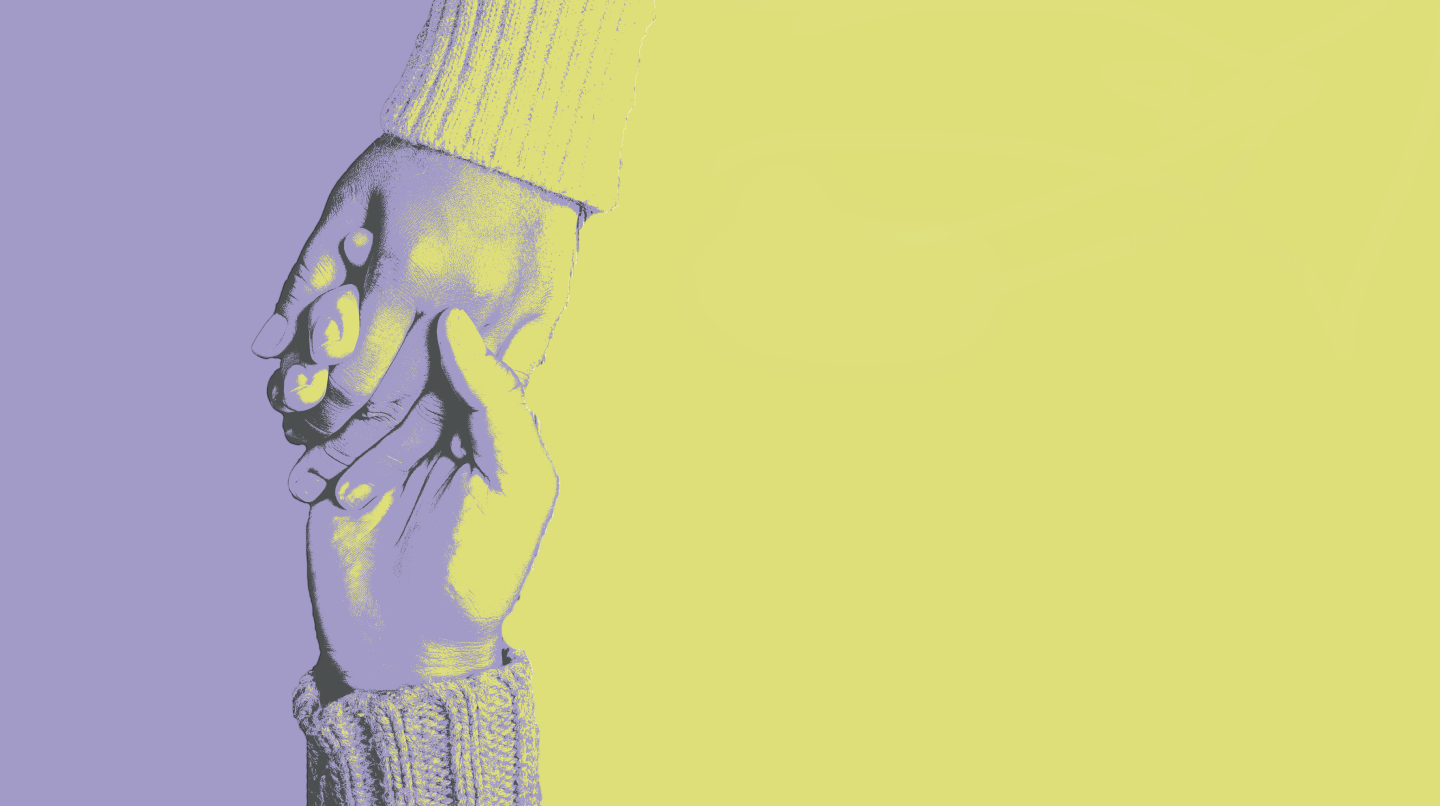
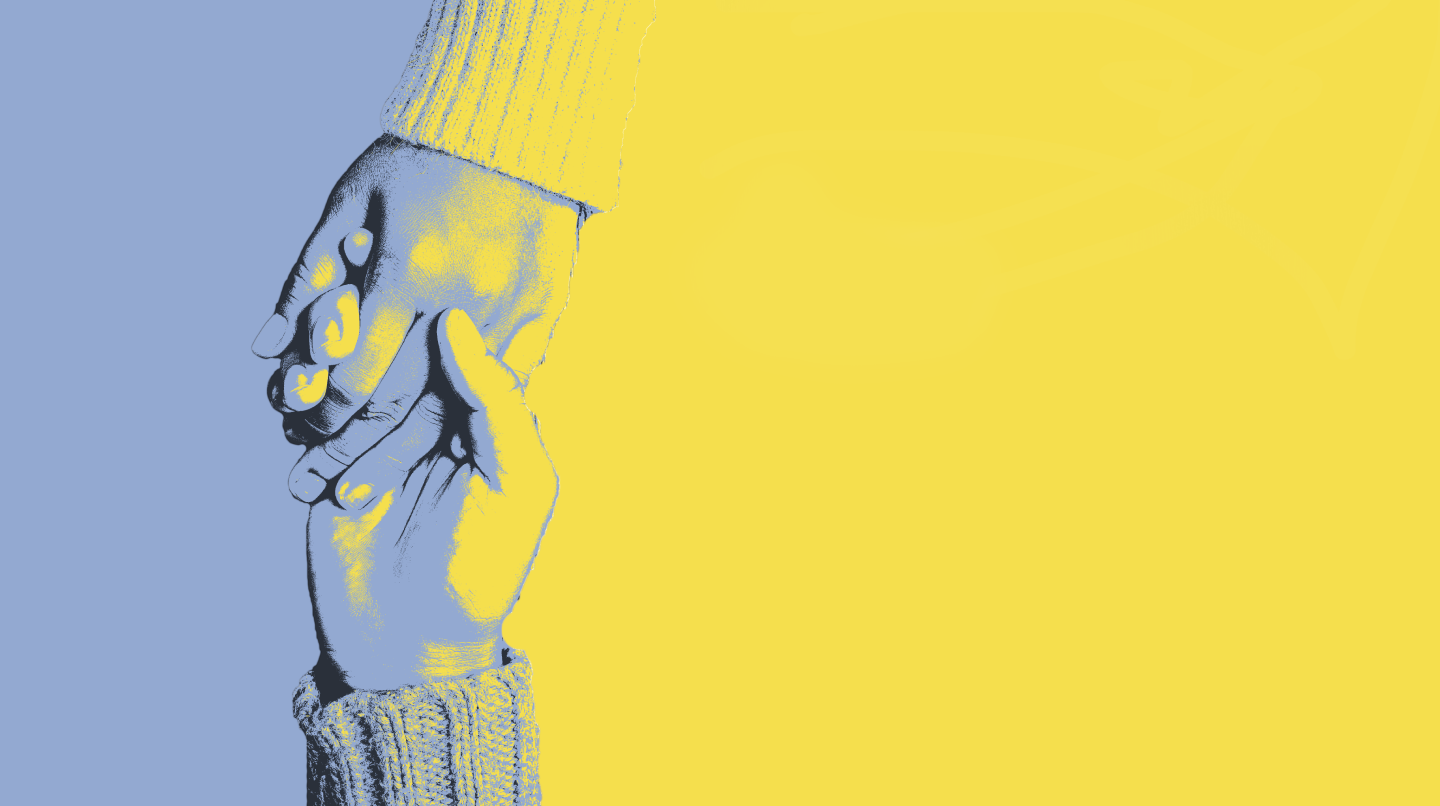
feat: header components added, bg changed

diff --git a/frontend/src/components/Header/index.tsx b/frontend/src/components/Header/index.tsx
@@ -1,3 +1,4 @@
+import { Autocomplete, TextField } from '@mui/material';
 import { useDispatch, useSelector } from 'react-redux';
 import { generatePath, useNavigate } from 'react-router-dom';
 import { roles } from 'src/constants/roles';
@@ -7,6 +8,8 @@ import { PATHS } from '../../constants/PATH';
 import { userLogOut } from '../../store';
 import { Logo } from '../atoms';
 import ArrowRight from '../atoms/ArrowRight';
+import Notifications from '../atoms/Notifications';
+// import SearchIcon from '../atoms/SearchIcon';
 import { Container, Heading, Text } from '../StyledComponents';
 import HeaderBg from './components/HeaderBg';
 // import Navigation from './components/Navigation';
@@ -17,7 +20,7 @@ const Header = () => {
   // eslint-disable-next-line
   const isAuth: boolean = useSelector((state: any) => state.auth.isAuthenticated);
   const user = useSelector(getUser);
-  const { involvements } = user;
+  const involvements = user?.involvements;
   const userRole = involvements && roles.map(role => (role.id === involvements[0].type ? `${role.title}` : null));
 
   const dispatch = useDispatch();
@@ -56,7 +59,38 @@ const Header = () => {
               style={{ cursor: 'pointer' }}
             />
 
-            {isAuth && <Text tag="b1">{userRole}</Text>}
+            {isAuth && (
+              <>
+                <Text tag="b1">{userRole}</Text>
+                <div style={{ width: '360px' }}>
+                  <Autocomplete
+                    freeSolo
+                    id="free-solo-2-demo"
+                    disableClearable
+                    options={roles.map(role => role.title)}
+                    renderInput={params => (
+                      <TextField
+                        {...params}
+                        sx={{ m: 1, width: '36ch', bgcolor: '#fff' }}
+                        size="small"
+                        label="Пошук"
+                        InputProps={{
+                          ...params.InputProps,
+                          // startAdornment: (
+                          //   <InputAdornment position="start">
+                          //     <SearchIcon width={16} />
+                          //   </InputAdornment>
+                          // ),
+                          // placeholder: 'Пошук',
+                          type: 'search',
+                        }}
+                      />
+                    )}
+                  />
+                </div>
+                <Notifications width={24} isNew={true} style={{ cursor: 'pointer' }} />
+              </>
+            )}
             <div style={{ width: '166px', display: 'flex', justifyContent: 'space-between', alignItems: 'center' }}>
               <Heading tag="h4" onClick={handleLogOut} style={{ cursor: 'pointer' }}>
                 {isAuth ? 'вихід' : 'вхід'}

diff --git a/frontend/src/components/atoms/SearchIcon/index.tsx b/frontend/src/components/atoms/SearchIcon/index.tsx
@@ -1,0 +1,11 @@
+import React from 'react';
+
+const SearchIcon = ({ height, width, ...props }: React.SVGProps<SVGSVGElement>) => (
+  <svg width={width} height={height} {...props} viewBox="0 0 16 16" fill="none" xmlns="http://www.w3.org/2000/svg">
+    <path
+      d="M14.3559 13.6434L11.6496 10.9434C12.6047 9.80622 13.084 8.34425 12.9874 6.86236C12.8908 5.38046 12.2259 3.99306 11.1313 2.98951C10.0366 1.98596 8.59681 1.44375 7.11212 1.47597C5.62743 1.50818 4.21249 2.11233 3.16241 3.16241C2.11233 4.21249 1.50818 5.62743 1.47597 7.11212C1.44375 8.59681 1.98596 10.0366 2.98951 11.1313C3.99306 12.2259 5.38046 12.8908 6.86236 12.9874C8.34425 13.084 9.80622 12.6047 10.9434 11.6496L13.6434 14.3559C13.7389 14.4483 13.8667 14.4999 13.9996 14.4999C14.1325 14.4999 14.2603 14.4483 14.3559 14.3559C14.4497 14.2611 14.5024 14.133 14.5024 13.9996C14.5024 13.8662 14.4497 13.7382 14.3559 13.6434ZM2.49961 7.24961C2.49961 6.31015 2.77819 5.39178 3.30013 4.61065C3.82206 3.82952 4.56391 3.2207 5.43186 2.86118C6.29981 2.50166 7.25488 2.4076 8.17629 2.59088C9.0977 2.77416 9.94407 3.22655 10.6084 3.89085C11.2727 4.55515 11.7251 5.40152 11.9083 6.32293C12.0916 7.24434 11.9976 8.19941 11.638 9.06735C11.2785 9.9353 10.6697 10.6772 9.88857 11.1991C9.10743 11.721 8.18907 11.9996 7.24961 11.9996C5.99034 11.998 4.78312 11.497 3.89268 10.6065C3.00224 9.7161 2.50126 8.50888 2.49961 7.24961Z"
+      fill="#93A9D2"
+    />
+  </svg>
+);
+export default SearchIcon;

diff --git a/frontend/src/components/atoms/Notifications/index.tsx b/frontend/src/components/atoms/Notifications/index.tsx
@@ -1,0 +1,21 @@
+import React from 'react';
+
+interface INotifications {
+  isNew?: boolean;
+}
+
+const Notifications = ({ height, width, isNew, ...props }: React.SVGProps<SVGSVGElement> & INotifications) => (
+  <svg height={height} width={width} {...props} viewBox="0 0 20 22" fill="none" xmlns="http://www.w3.org/2000/svg">
+    <path
+      d="M11.73 20C11.5544 20.3033 11.3021 20.5552 10.9985 20.7302C10.6948 20.9053 10.3505 20.9974 10 20.9974C9.6495 20.9974 9.30517 20.9053 9.00152 20.7302C8.69788 20.5552 8.44561 20.3033 8.27 20M16 7.4C16 5.703 15.368 4.075 14.243 2.875C13.117 1.675 11.59 1 10 1C8.409 1 6.883 1.674 5.757 2.875C4.632 4.075 4 5.703 4 7.4C4 14.867 1 17 1 17H19C19 17 16 14.867 16 7.4Z"
+      style={{
+        stroke: '#323434',
+        strokeWidth: '1.5',
+        strokeLinecap: 'round',
+        strokeLinejoin: 'round',
+      }}
+    />
+    {isNew ? <circle cx="16" cy="4" r="3.5" fill="#93A9D2" stroke="#323434" /> : null}
+  </svg>
+);
+export default Notifications;

diff --git a/frontend/src/utils/styles/theme.ts b/frontend/src/utils/styles/theme.ts
@@ -1,10 +1,10 @@
-import { deepPurple, grey, lime } from '@mui/material/colors';
+import { deepPurple, grey, indigo, lime } from '@mui/material/colors';
 import { createTheme } from '@mui/material/styles';
 
 const theme = createTheme({
   palette: {
     primary: {
-      main: deepPurple[400],
+      main: indigo[300],
     },
     secondary: {
       main: lime[400],
